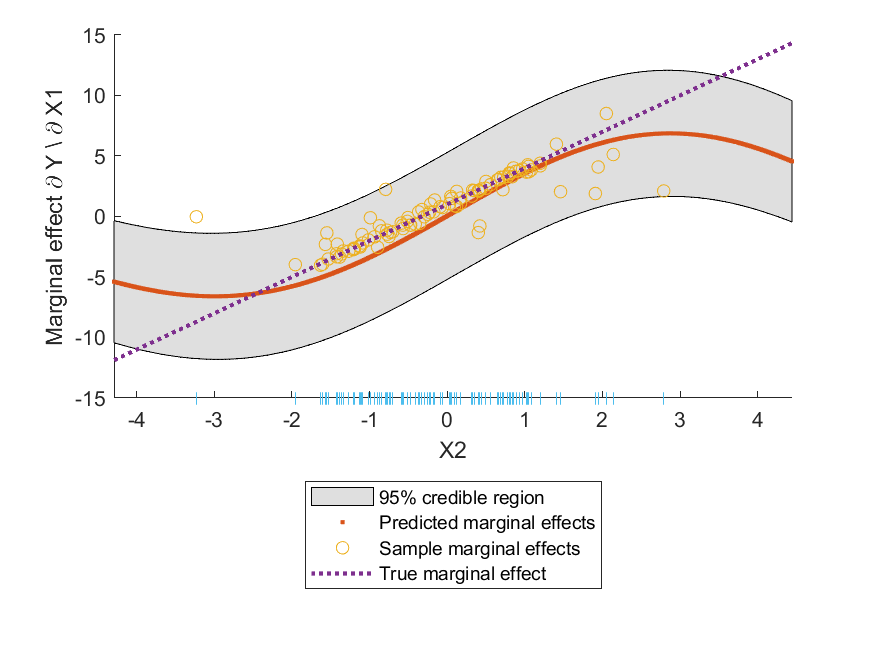
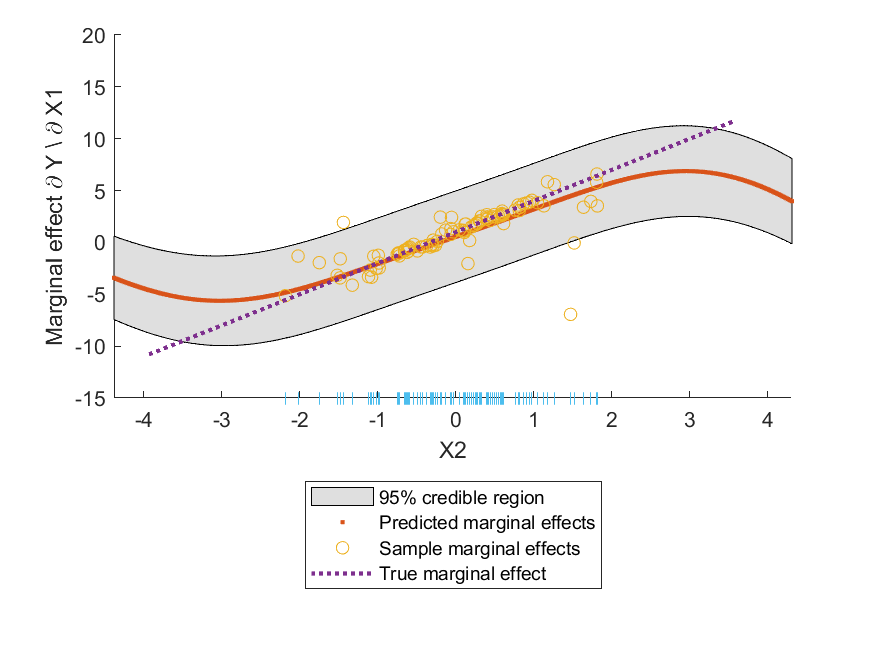
Specify ylim for simulations
Make simulation plots more comparable by specifying common ylims. Rebuild plots.

diff --git a/simulations/jointly_negcorr_bivariate_linear.m b/simulations/jointly_negcorr_bivariate_linear.m
@@ -52,6 +52,7 @@ hold on;
 plot(gridX(:,d), b1*ones(size(gridX,1), 1), ':', 'LineWidth', 2, 'DisplayName', "True marginal effect");
 legend('Location', 'southoutside');
 legend('AutoUpdate', 'off');
+ylim([-2 5])
 plot(X(:,d), min(ylim) * ones(size(X(:,d),1)), '|');
 hold off;
 
@@ -67,6 +68,7 @@ hold on;
 plot(gridX(:,d), b2*ones(size(gridX,1), 1), ':', 'LineWidth', 2, 'DisplayName', "True marginal effect");
 legend('Location', 'southoutside');
 legend('AutoUpdate', 'off');
+ylim([-2 5])
 plot(X(:,d), min(ylim) * ones(size(X(:,d),1)), '|');
 hold off;
 
@@ -102,6 +104,7 @@ hold on;
 plot(gridX(:,d), b1*ones(size(gridX,1), 1), ':', 'LineWidth', 2, 'DisplayName', "True marginal effect");
 legend('Location', 'southoutside');
 legend('AutoUpdate', 'off');
+ylim([-2 5])
 plot(X(:,d), min(ylim) * ones(size(X(:,d),1)), '|');
 hold off;
 
@@ -116,6 +119,7 @@ hold on;
 plot(gridX(:,d), b2*ones(size(gridX,1), 1), ':', 'LineWidth', 2, 'DisplayName', "True marginal effect");
 legend('Location', 'southoutside');
 legend('AutoUpdate', 'off');
+ylim([-2 5])
 plot(X(:,d), min(ylim) * ones(size(X(:,d),1)), '|');
 hold off;
 

diff --git a/simulations/jointly_poscorr_bivariate_linear.m b/simulations/jointly_poscorr_bivariate_linear.m
@@ -52,6 +52,7 @@ hold on;
 plot(gridX(:,d), b1*ones(size(gridX,1), 1), ':', 'LineWidth', 2, 'DisplayName', "True marginal effect");
 legend('Location', 'southoutside');
 legend('AutoUpdate', 'off');
+ylim([-2 5])
 plot(X(:,d), min(ylim) * ones(size(X(:,d),1)), '|');
 hold off;
 
@@ -67,6 +68,7 @@ hold on;
 plot(gridX(:,d), b2*ones(size(gridX,1), 1), ':', 'LineWidth', 2, 'DisplayName', "True marginal effect");
 legend('Location', 'southoutside');
 legend('AutoUpdate', 'off');
+ylim([-2 5])
 plot(X(:,d), min(ylim) * ones(size(X(:,d),1)), '|');
 hold off;
 
@@ -102,6 +104,7 @@ hold on;
 plot(gridX(:,d), b1*ones(size(gridX,1), 1), ':', 'LineWidth', 2, 'DisplayName', "True marginal effect");
 legend('Location', 'southoutside');
 legend('AutoUpdate', 'off');
+ylim([-2 5])
 plot(X(:,d), min(ylim) * ones(size(X(:,d),1)), '|');
 hold off;
 
@@ -116,6 +119,7 @@ hold on;
 plot(gridX(:,d), b2*ones(size(gridX,1), 1), ':', 'LineWidth', 2, 'DisplayName', "True marginal effect");
 legend('Location', 'southoutside');
 legend('AutoUpdate', 'off');
+ylim([-2 5])
 plot(X(:,d), min(ylim) * ones(size(X(:,d),1)), '|');
 hold off;
 

diff --git a/simulations/bivariate_linear.m b/simulations/bivariate_linear.m
@@ -49,6 +49,7 @@ hold on;
 plot(gridX(:,d), b1*ones(size(gridX,1), 1), ':', 'LineWidth', 2, 'DisplayName', "True marginal effect");
 legend('Location', 'southoutside');
 legend('AutoUpdate', 'off');
+ylim([-2 5])
 plot(X(:,d), min(ylim) * ones(size(X(:,d),1)), '|');
 hold off;
 
@@ -64,6 +65,7 @@ hold on;
 plot(gridX(:,d), b2*ones(size(gridX,1), 1), ':', 'LineWidth', 2, 'DisplayName', "True marginal effect");
 legend('Location', 'southoutside');
 legend('AutoUpdate', 'off');
+ylim([-2 5])
 plot(X(:,d), min(ylim) * ones(size(X(:,d),1)), '|');
 hold off;
 
@@ -99,6 +101,7 @@ hold on;
 plot(gridX(:,d), b1*ones(size(gridX,1), 1), ':', 'LineWidth', 2, 'DisplayName', "True marginal effect");
 legend('Location', 'southoutside');
 legend('AutoUpdate', 'off');
+ylim([-2 5])
 plot(X(:,d), min(ylim) * ones(size(X(:,d),1)), '|');
 hold off;
 
@@ -113,6 +116,7 @@ hold on;
 plot(gridX(:,d), b2*ones(size(gridX,1), 1), ':', 'LineWidth', 2, 'DisplayName', "True marginal effect");
 legend('Location', 'southoutside');
 legend('AutoUpdate', 'off');
+ylim([-2 5])
 plot(X(:,d), min(ylim) * ones(size(X(:,d),1)), '|');
 hold off;
 

diff --git a/simulations/bivariate_linear_interaction.m b/simulations/bivariate_linear_interaction.m
@@ -53,6 +53,7 @@ xlabel('X2');
 ylabel('Marginal effect \partial Y \\ \partial X1')
 legend('Location', 'southoutside');
 legend('AutoUpdate', 'off');
+ylim([-15 20])
 plot(X(:,2), min(ylim) * ones(size(X(:,2),1)), '|');
 hold off;
 
@@ -72,6 +73,7 @@ xlabel('X1');
 ylabel('Marginal effect \partial Y \\ \partial X2')
 legend('Location', 'southoutside');
 legend('AutoUpdate', 'off');
+ylim([-15 20])
 plot(X(:,1), min(ylim) * ones(size(X(:,1),1)), '|');
 hold off;
 
@@ -111,6 +113,7 @@ xlabel('X2');
 ylabel('Marginal effect \partial Y \\ \partial X1')
 legend('Location', 'southoutside');
 legend('AutoUpdate', 'off');
+ylim([-15 20])
 plot(X(:,2), min(ylim) * ones(size(X(:,2),1)), '|');
 hold off;
 
@@ -130,6 +133,7 @@ xlabel('X1');
 ylabel('Marginal effect \partial Y \\ \partial X2')
 legend('Location', 'southoutside');
 legend('AutoUpdate', 'off');
+ylim([-15 20])
 plot(X(:,1), min(ylim) * ones(size(X(:,1),1)), '|');
 hold off;
 

diff --git a/simulations/jointly_negcorr_bivariate_linear_interaction.m b/simulations/jointly_negcorr_bivariate_linear_interaction.m
@@ -56,6 +56,7 @@ xlabel('X2');
 ylabel('Marginal effect \partial Y \\ \partial X1')
 legend('Location', 'southoutside');
 legend('AutoUpdate', 'off');
+ylim([-15 20])
 plot(X(:,2), min(ylim) * ones(size(X(:,2),1)), '|');
 hold off;
 
@@ -75,6 +76,7 @@ xlabel('X1');
 ylabel('Marginal effect \partial Y \\ \partial X2')
 legend('Location', 'southoutside');
 legend('AutoUpdate', 'off');
+ylim([-15 20])
 plot(X(:,1), min(ylim) * ones(size(X(:,1),1)), '|');
 hold off;
 
@@ -114,6 +116,7 @@ xlabel('X2');
 ylabel('Marginal effect \partial Y \\ \partial X1')
 legend('Location', 'southoutside');
 legend('AutoUpdate', 'off');
+ylim([-15 20])
 plot(X(:,2), min(ylim) * ones(size(X(:,2),1)), '|');
 hold off;
 
@@ -133,6 +136,7 @@ xlabel('X1');
 ylabel('Marginal effect \partial Y \\ \partial X2')
 legend('Location', 'southoutside');
 legend('AutoUpdate', 'off');
+ylim([-15 20])
 plot(X(:,1), min(ylim) * ones(size(X(:,1),1)), '|');
 hold off;
 

diff --git a/simulations/jointly_poscorr_bivariate_linear_interaction.m b/simulations/jointly_poscorr_bivariate_linear_interaction.m
@@ -56,6 +56,7 @@ xlabel('X2');
 ylabel('Marginal effect \partial Y \\ \partial X1')
 legend('Location', 'southoutside');
 legend('AutoUpdate', 'off');
+ylim([-15 20])
 plot(X(:,2), min(ylim) * ones(size(X(:,2),1)), '|');
 hold off;
 
@@ -75,6 +76,7 @@ xlabel('X1');
 ylabel('Marginal effect \partial Y \\ \partial X2')
 legend('Location', 'southoutside');
 legend('AutoUpdate', 'off');
+ylim([-15 20])
 plot(X(:,1), min(ylim) * ones(size(X(:,1),1)), '|');
 hold off;
 
@@ -114,6 +116,7 @@ xlabel('X2');
 ylabel('Marginal effect \partial Y \\ \partial X1')
 legend('Location', 'southoutside');
 legend('AutoUpdate', 'off');
+ylim([-15 20])
 plot(X(:,2), min(ylim) * ones(size(X(:,2),1)), '|');
 hold off;
 
@@ -133,6 +136,7 @@ xlabel('X1');
 ylabel('Marginal effect \partial Y \\ \partial X2')
 legend('Location', 'southoutside');
 legend('AutoUpdate', 'off');
+ylim([-15 20])
 plot(X(:,1), min(ylim) * ones(size(X(:,1),1)), '|');
 hold off;
 
